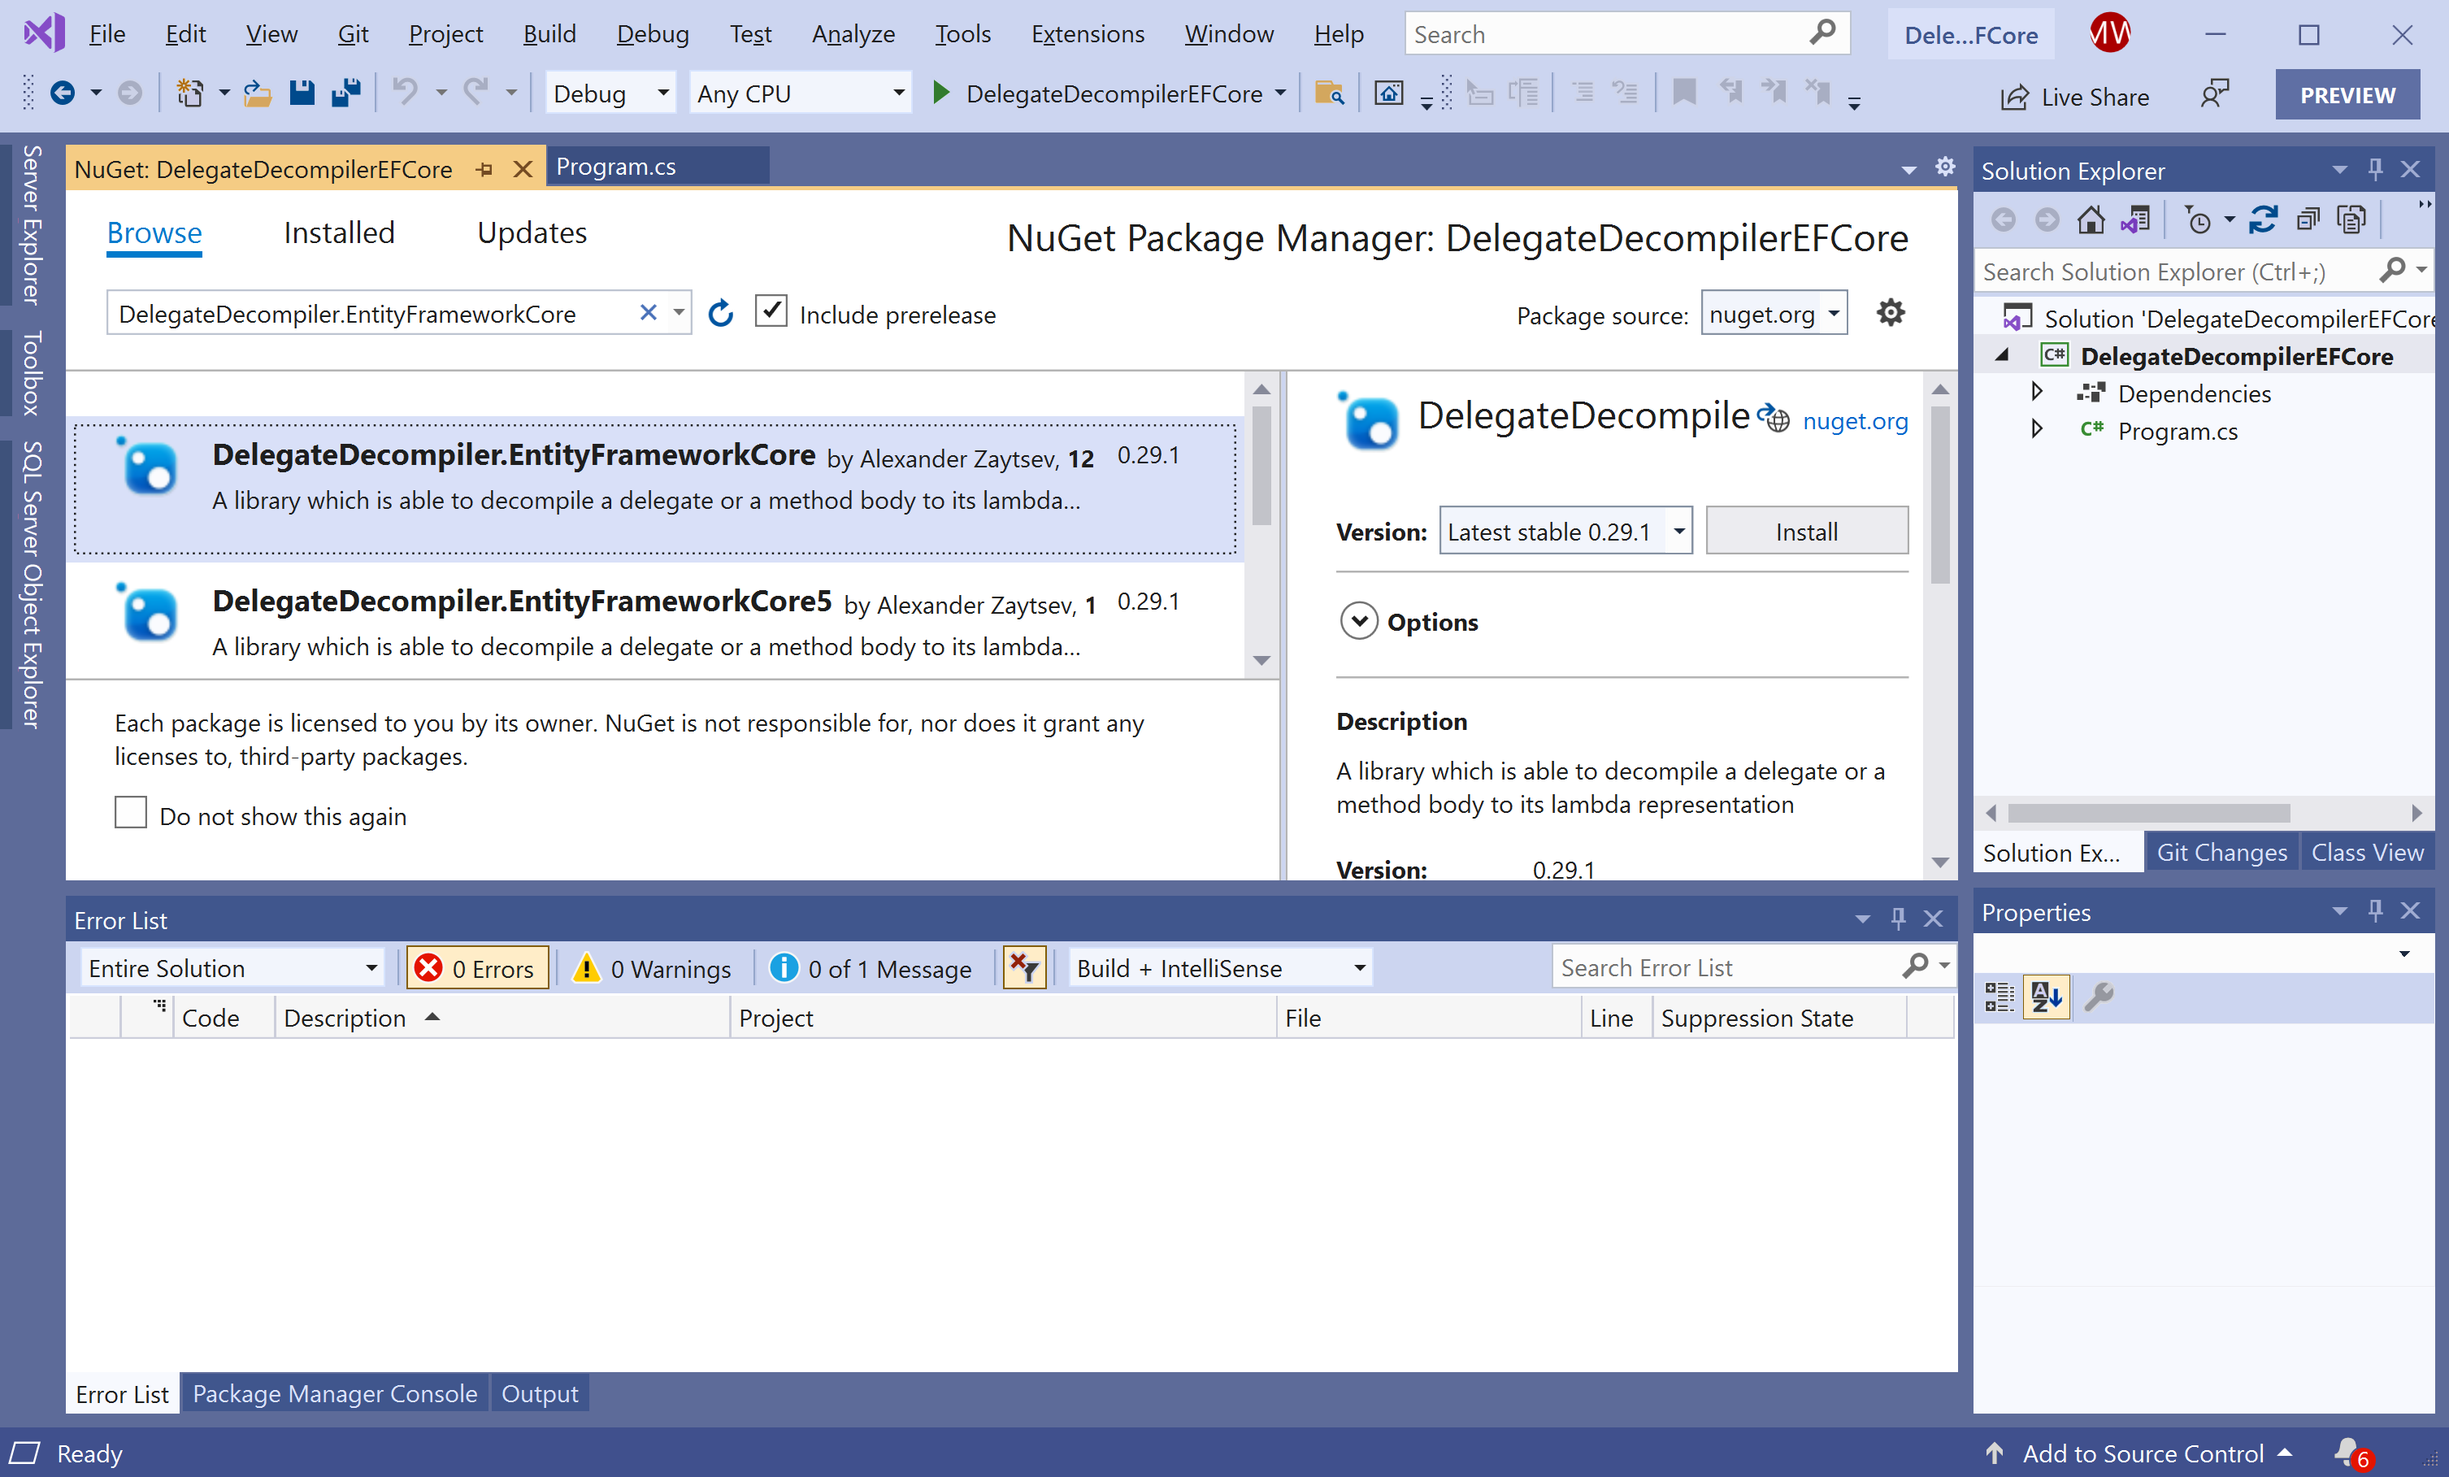
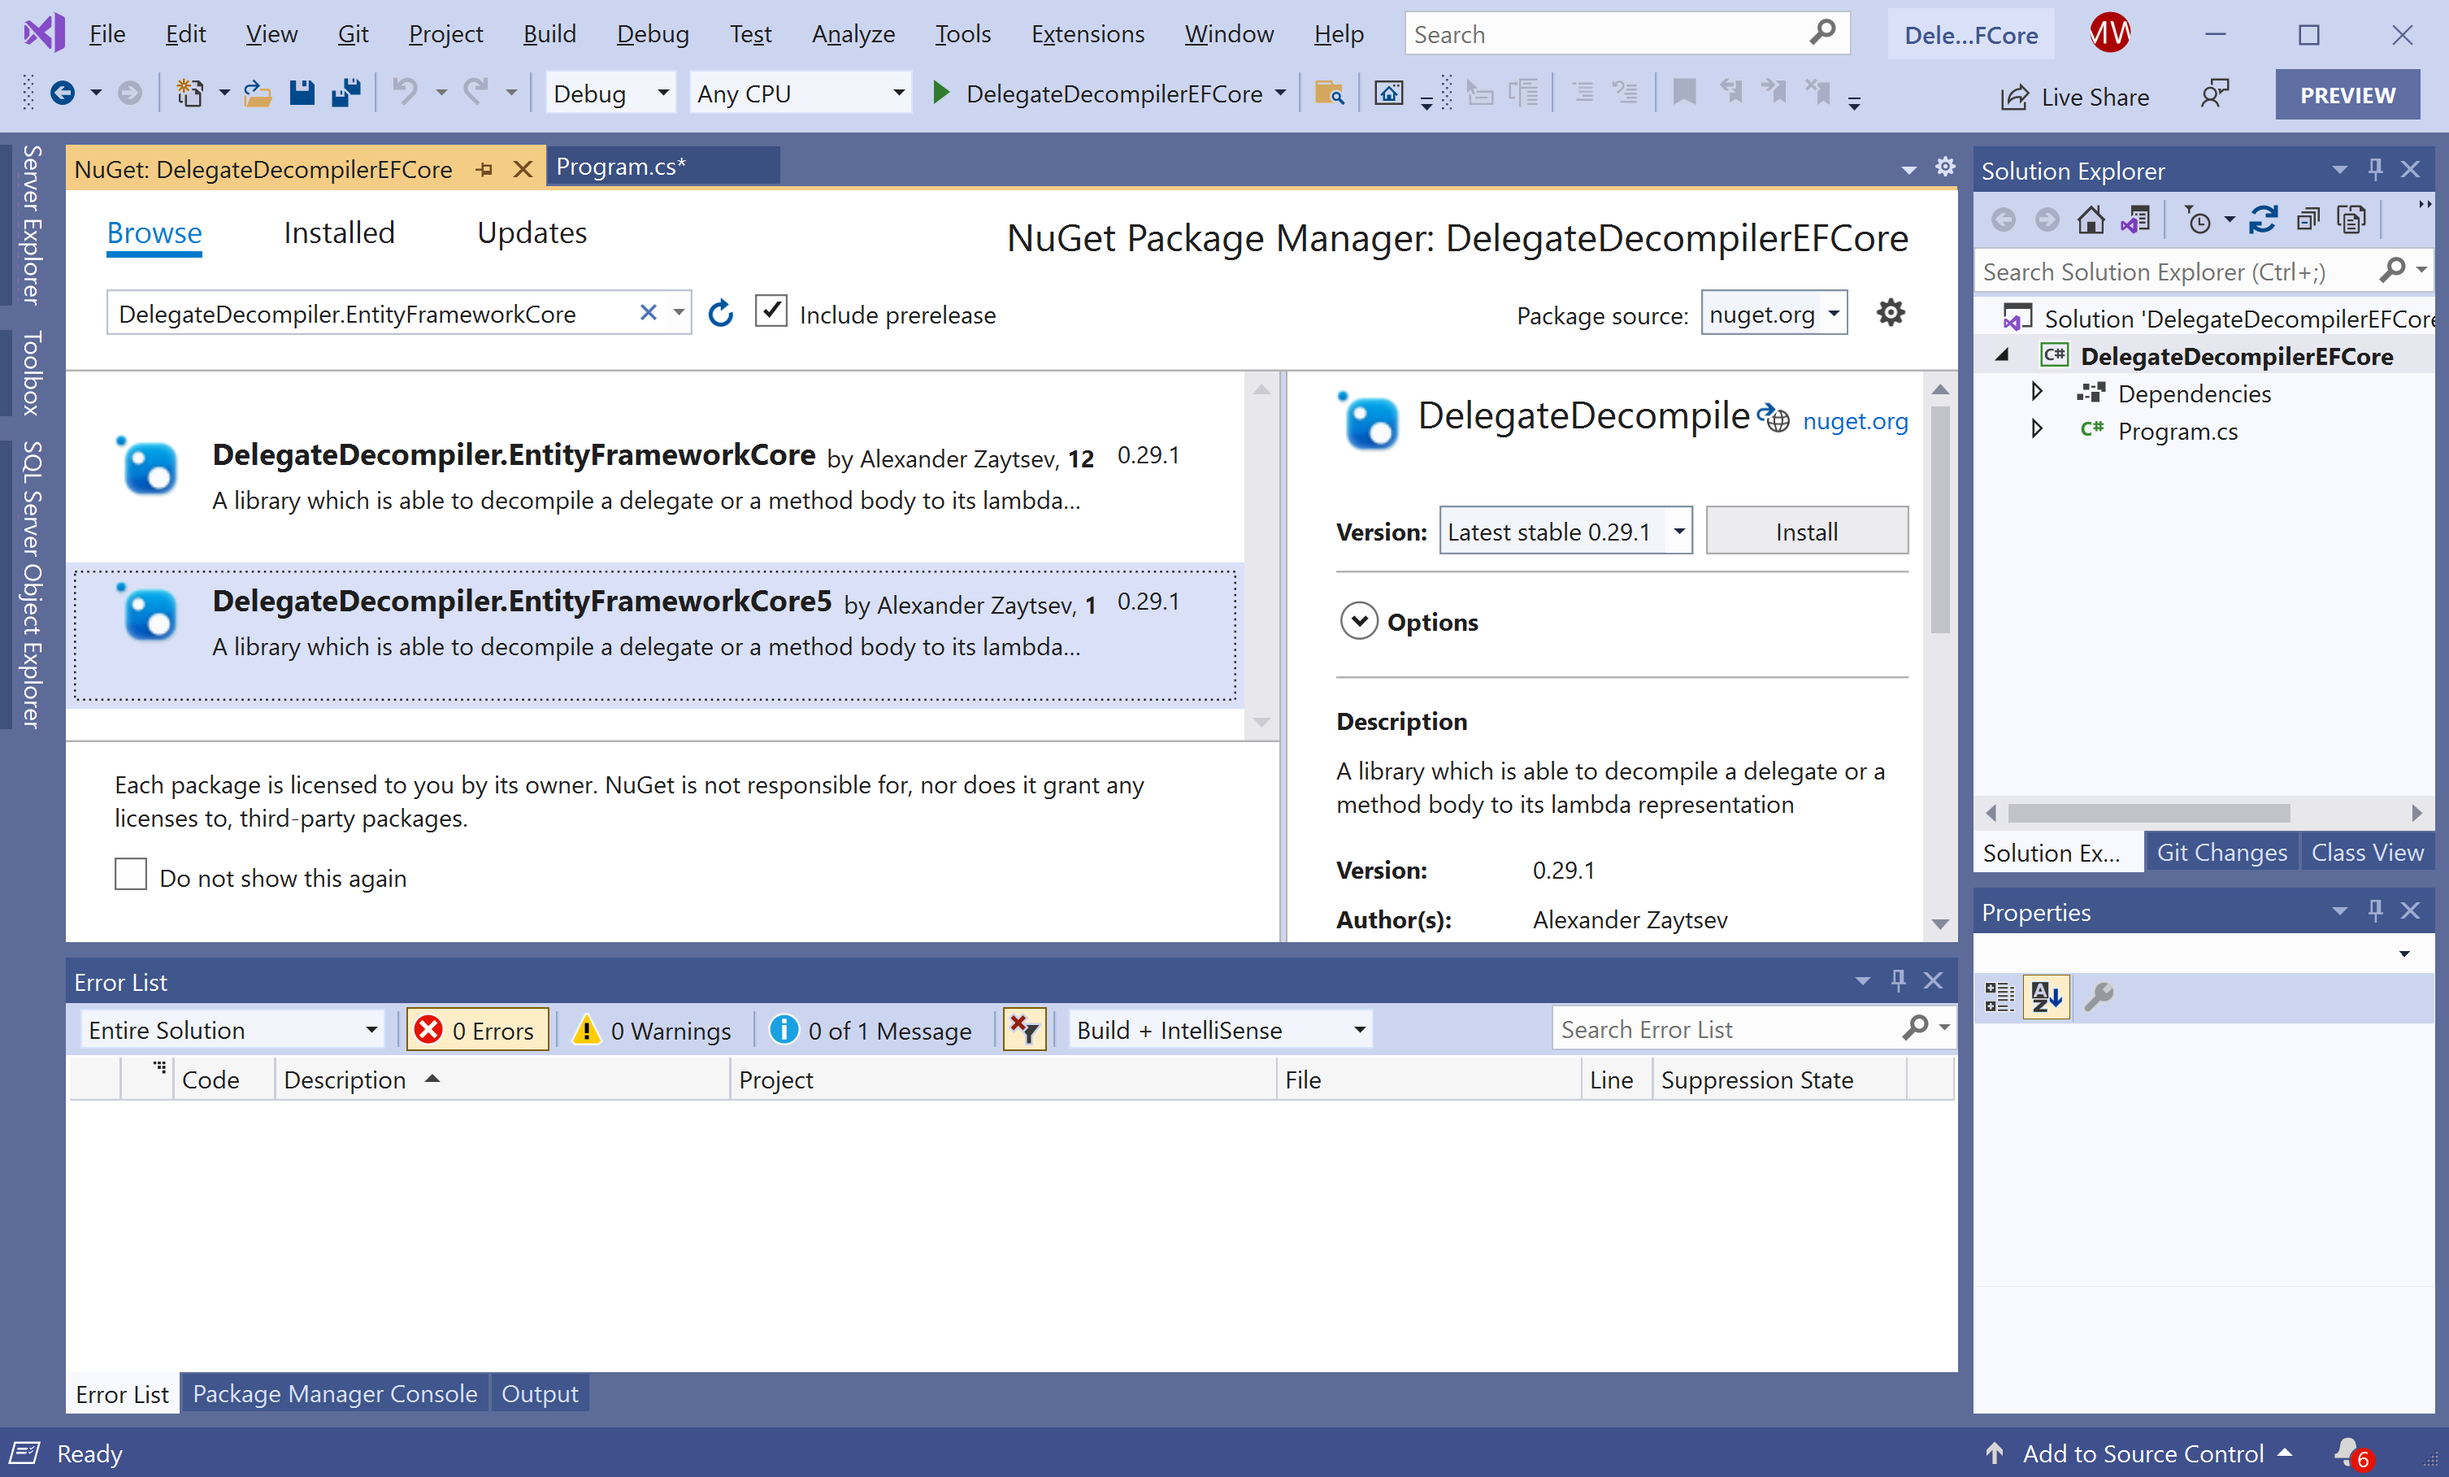
Updated Getting Started article

Changed region(s): [[0.0, 0.2774, 0.8112, 0.7397], [0.78, 0.4007, 0.8112, 0.4315], [0.312, 0.0925, 0.3432, 0.1233]]

diff --git a/tutorials/delegate-decompiler-efcore/getting-started.md b/tutorials/delegate-decompiler-efcore/getting-started.md
@@ -5,21 +5,14 @@ Name: Getting Started
 
 # Getting Started
 
-**EFCore.NamingConventions** is a NuGet library for **Microsoft.EntityFrameworkCore** that enables you to decompile a delegate or a method body to its lambda representation.
-
-## Supported Naming Conventions
-
- - UseSnakeCaseNamingConvention: FullName becomes `full_name`
- - UseLowerCaseNamingConvention: FullName becomes `fullname`
- - UseCamelCaseNamingConvention: FullName becomes `fullName`
- - UseUpperCaseNamingConvention: FullName becomes `FULLNAME`
+**DelegateDecompiler.EntityFrameworkCore** is a NuGet library for **Microsoft.EntityFrameworkCore** that enables you to decompile a delegate or a method body to its lambda representation.
 
 ## Installation
 
 You can easily install it from the **Package Manager Console** window by running the following command.
 
 ```csharp
-PM> Install-Package DelegateDecompiler.EntityFrameworkCore
+PM> Install-Package DelegateDecompiler.EntityFrameworkCore5
 ```
 
 ## Environment Setup
